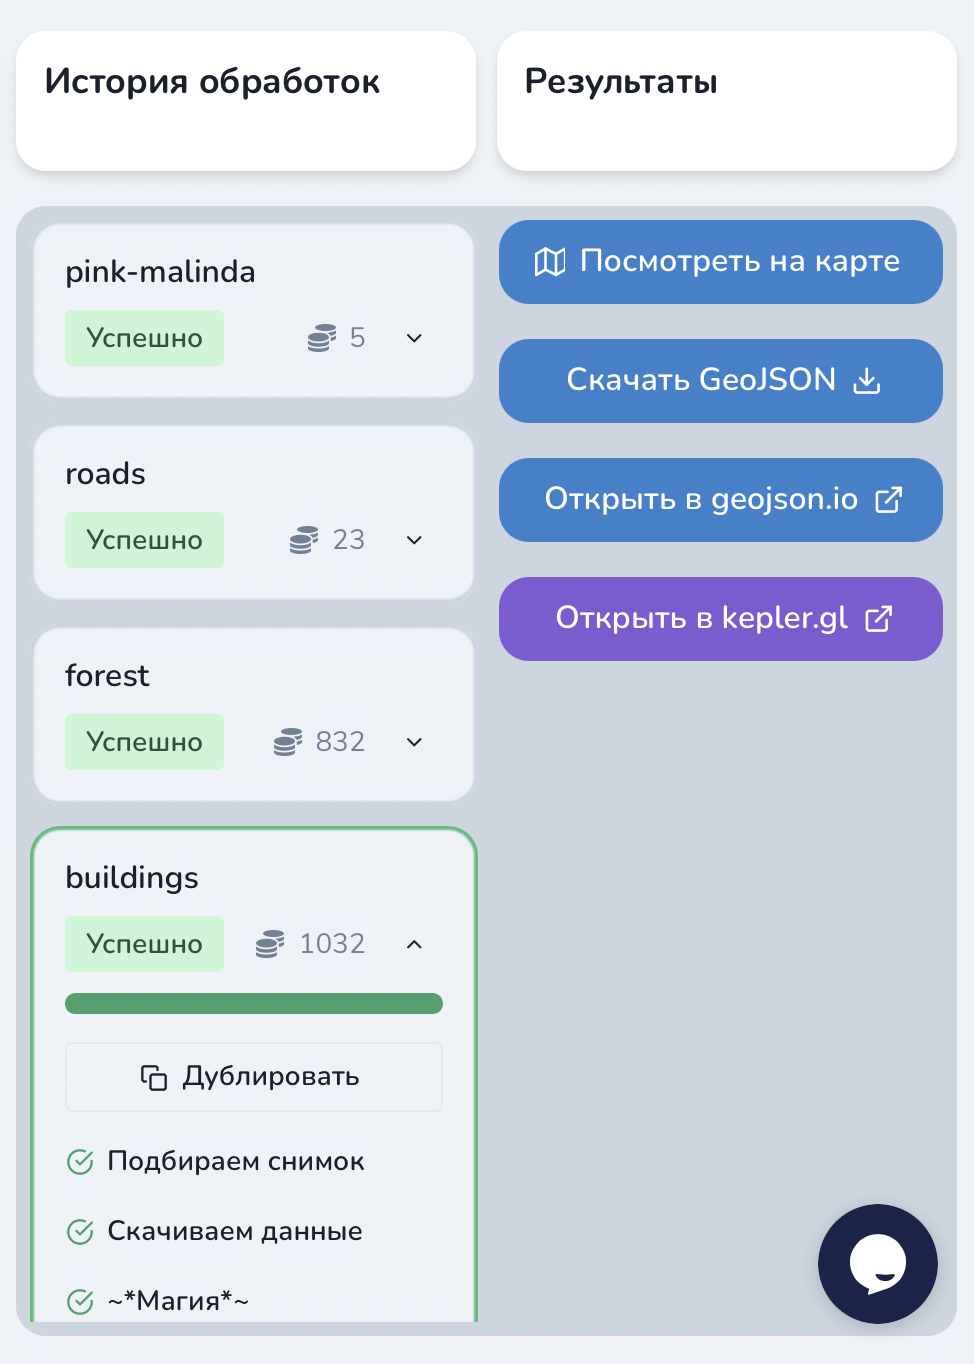
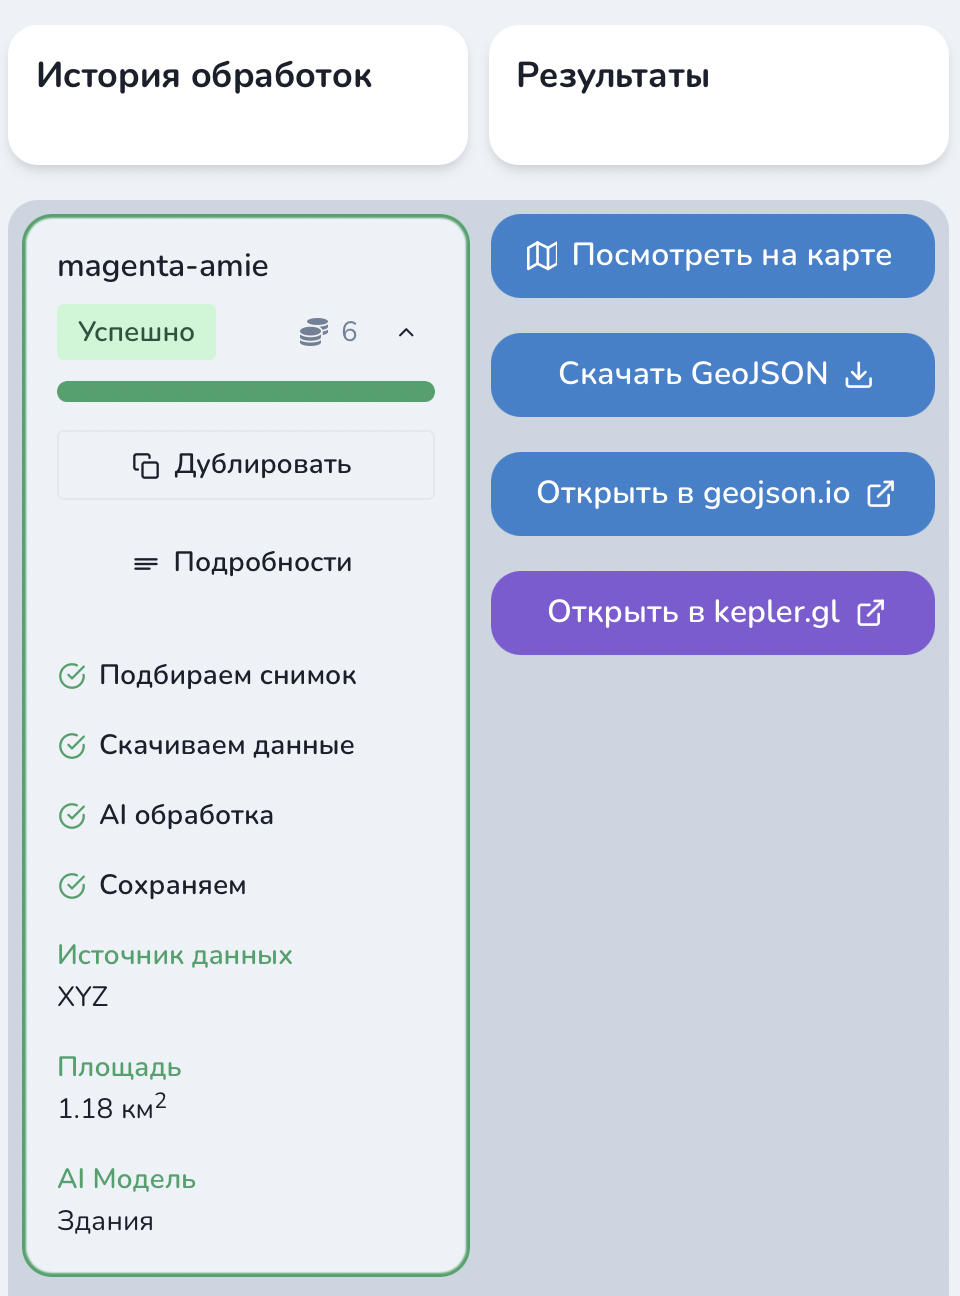
Add api tab description

diff --git a/docs_userguides/mapflow_auth.rst b/docs_userguides/mapflow_auth.rst
@@ -11,7 +11,7 @@ Token нужно передавать в параметрах авторизац
    .. figure:: _static/api_token_login.png
     :alt: Preview map
     :align: center
-    :width: 12cm
+    :width: 8cm
 
 
 
@@ -20,13 +20,13 @@ Token нужно передавать в параметрах авторизац
 
 Откройте web-приложение `Mapflow <https://app.mapflow.ai>`_. Зарегистрируйте новый аккаунт или войдите, используя аккаунт Google.
 
-Перейдите в `настройки профиля пользователя <https://app.mapflow.ai/account>`_, чтобы сгенерировать новый API токен.
+Перейдите в `настройки профиля пользователя <https://app.mapflow.ai/account>`_, чтобы сгенерировать и получить API токен.
 
 
- .. figure:: _static/api_token.png
-  :alt: Preview map
-  :align: center
-  :width: 15cm
+ .. figure:: _static/api_tab.png
+   :alt: API tab
+   :align: center
+   :width: 8cm
 
 .. attention::
-  Убедитесь, что вы сохранили у себя токен, в ином случае потребуется его перевыпуск.
+  Убедитесь, что вы сохранили у себя токен. В ином случае потребуется его сброс и перевыпуск, что приведет за собой автоматический выход из учетной записи пользователя в QGIS плагине и переход к окну авторизации пользователя.

diff --git a/docs_api/qgis_mapflow.rst b/docs_api/qgis_mapflow.rst
@@ -4,6 +4,9 @@ QGIS - Mapflow
 .. attention::
  Данное приложение позволяет использовать возможности платформы Mapflow в QGIS. Для его использования потребуется доступ к :doc:`processing_api` - см. :doc:`авторизация <../docs_userguides/mapflow_auth>`.
 
+ В настройках пользователя во `вкладке API <https://app.mapflow.ai/account/api>`_ указан предоставленный вам лимит площади для обработок (изначально предоставляется 100 км\ :sup:`2`) и общая площадь уже завершенных обработок.
+
+
 
 Что такое QGIS
 ---------------
